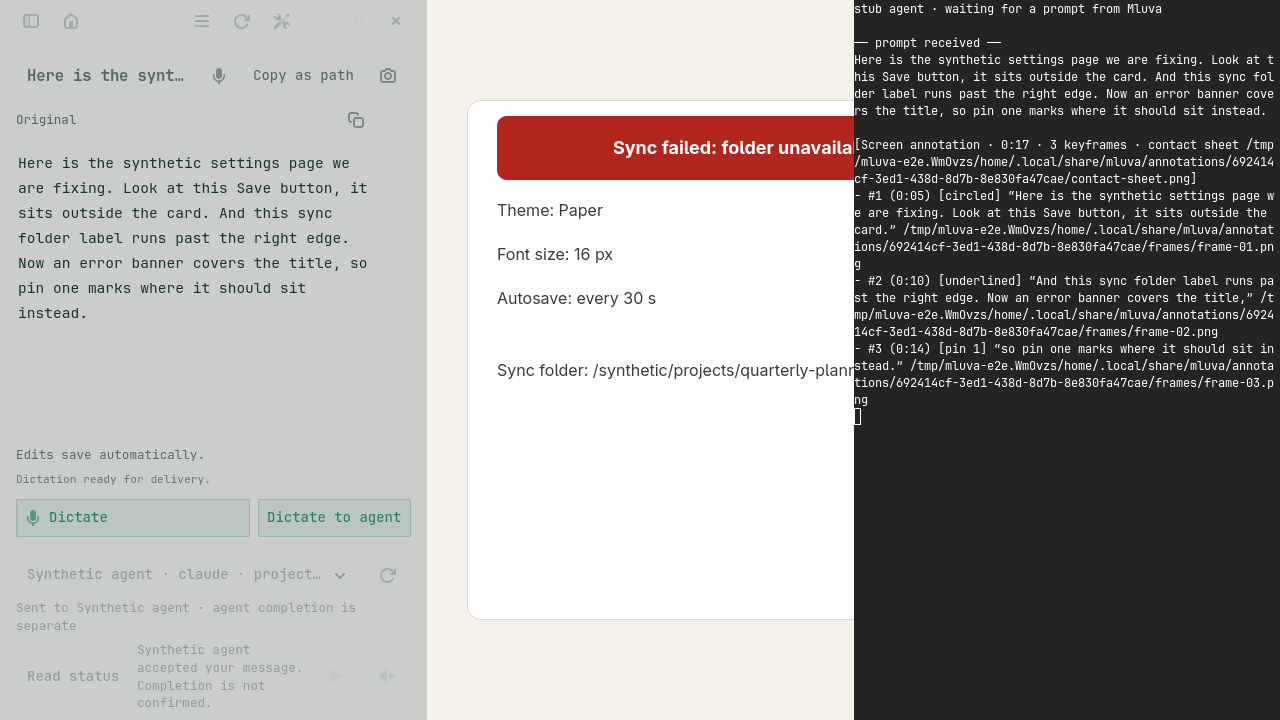
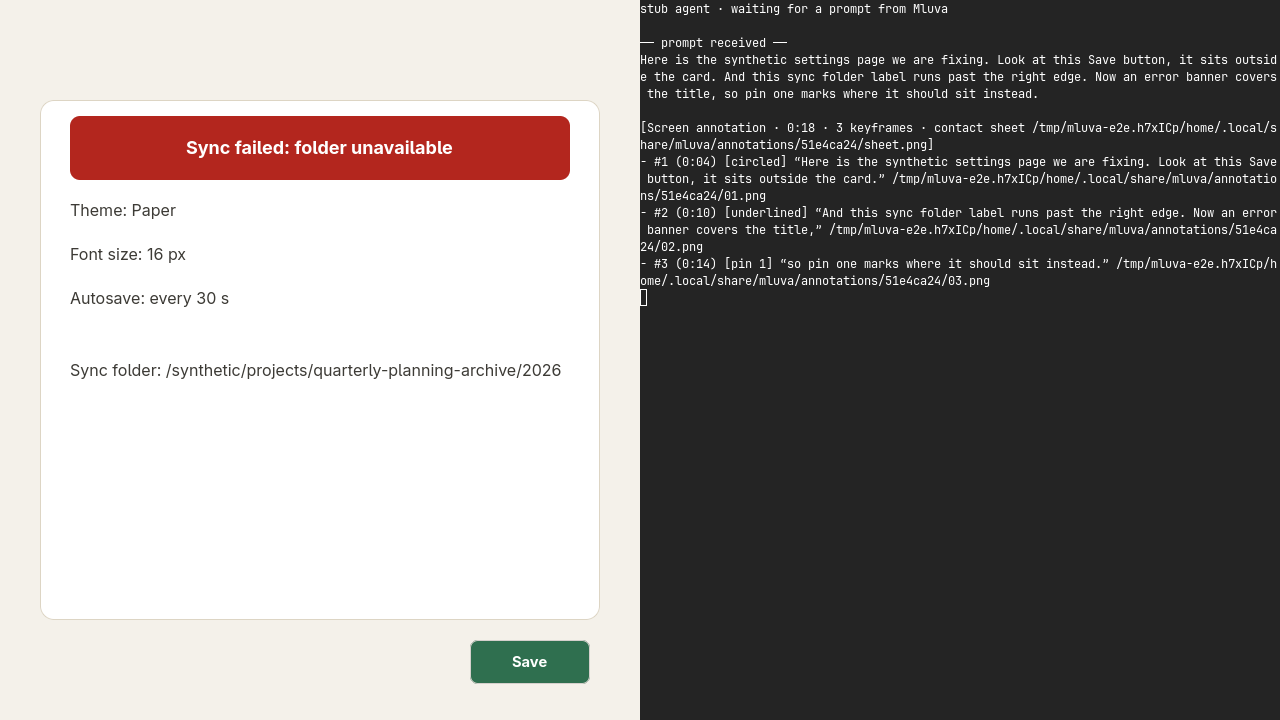
Regenerate the offscreen evidence with short bundle paths
Run the offscreen end-to-end check with debug binaries built from the
path change. The delivered summary now names
annotations/<8 hex>/01.png and sheet.png. The record gives the path
lengths before and after, and notes that the virtual machine's bundles
predate the change.

diff --git a/docs/verification/screen-annotations/README.md b/docs/verification/screen-annotations/README.md
@@ -18,22 +18,23 @@ Run it from the repository root once a layer-shell harness and the debug binarie
 
 ### Result
 
-The [evidence](evidence/) comes from one run on 21 October 2026 with debug binaries built from `b1ba83e`, the branch merged with `main` after #112 ([hashes](evidence/binaries.sha256)). The timeline is in [driver.log](evidence/driver.log); times below are on the recording's sample clock.
+The [evidence](evidence/) comes from one run on 23 October 2026 with debug binaries built from `1002c33`, which shortens the bundle paths on top of `main` after #115 ([hashes](evidence/binaries.sha256)). The timeline is in [driver.log](evidence/driver.log); times below are on the recording's sample clock.
 
 | Check | Observed |
 | --- | --- |
 | Drawing reaches the overlay | Live ink over the synthetic page while Shift was held ([screenshot](evidence/02-drawing-circle.png)); ordinary windows kept their input |
-| Clean frames | Each keyframe was grabbed before its ink showed; the ink in the frames is composited from vectors. Only two raw frames were kept: the underline and the pin reused unchanged screens, keeping their own times |
+| Clean frames | Each keyframe was grabbed before its ink showed; the ink in the frames is composited from vectors. Only two raw frames were kept: the underline reused the circle's unchanged screen, keeping its own time, and the pin's frame shows the banner |
 | No frames before drawing | Nothing was grabbed before the first ink on this desktop, which binds no Shift; sampling started with it |
-| Keyframes | 3 for 3 separate gestures: circle at 0:05, underline at 0:10, pin at 0:14. The banner change and the spoken "Now" were not separate keyframes because the pin's frame already shows that screen |
+| Keyframes | 3 for 3 separate gestures: circle at 0:04, underline at 0:10, pin at 0:14. The banner change and the spoken "Now" were not separate keyframes because the pin's frame already shows that screen |
 | Crops | Whole screen, because this compositor reports no window geometry; no text is cut. Whole-window crops on Hyprland are covered by unit tests on synthetic geometry |
 | Clause matching | Each keyframe carries the words heard while it was on screen, on the preview-growth fallback ([summary](evidence/bundle/summary.md)). At 3 s preview chunks, the start of the banner sentence spills into the underline's line |
-| Delivery | One guarded `agent.prompt_guarded` after the two-second window, its text exactly the transcript, a blank line and `summary.md` ([prompt](evidence/delivered-prompt.txt), [terminal](evidence/04-agent-received.png)) |
+| Delivery | One guarded `agent.prompt_guarded` after the two-second window, its text exactly the transcript, a blank line and `summary.md` without its final newline ([prompt](evidence/delivered-prompt.txt), [terminal](evidence/04-agent-received.png)) |
+| Paths | The bundle is `annotations/51e4ca24/` with `01.png` to `03.png` and `sheet.png` directly inside. Under this run's synthetic home a keyframe path is 73 characters and the contact sheet's 76, against 114 and 112 for the earlier `<uuid>/frames/frame-NN.png` layout ([summary](evidence/bundle/summary.md)) |
 | History | Raw and working text are the transcript only; the bundle belongs to that conversation with 3 keyframes ([history](evidence/history.json)) |
-| Privacy | Bundle directories `0700`, files `0600` ([modes](evidence/bundle-modes.txt)); no raw-frame directory left after Quit ([count](evidence/leftover-frame-directories.txt)) |
-| Speech | Five 3 s preview chunks and one 17.9 s final upload to the loopback peer ([requests](evidence/speech-requests.jsonl)) |
+| Privacy | Bundle directory `0700`, files `0600` ([modes](evidence/bundle-modes.txt)); no raw-frame directory left after Quit ([count](evidence/leftover-frame-directories.txt)) |
+| Speech | Six 3 s preview chunks and one 18.0 s final upload to the loopback peer ([requests](evidence/speech-requests.jsonl)) |
 
-![Contact sheet from the run](evidence/bundle/contact-sheet.png)
+![Contact sheet from the run](evidence/bundle/sheet.png)
 
 ## Real Hyprland in a virtual machine
 
@@ -42,7 +43,7 @@ The [harness](hyprland-vm/README.md) runs Arch Linux in QEMU/KVM, headless, on a
 - **Input.** QMP drives the guest's USB keyboard and tablet, which libinput sees as physical devices.
 - **Observation.** Everything is read inside the guest: `hyprctl`, `grim`, and a probe text app that logs the keys, clicks, text and selection it receives.
 - **Mluva.** Mluva uses the managed Lua shortcut bridge, as on the workstation. Speech comes from the loopback peer, and the agent is the Herdr fixture peer with a stub agent in `foot`.
-- **Build.** Debug binaries from `189f948`, the head of the fixes ([hashes](hyprland-vm/evidence/binaries.sha256)), run on 23 October 2026.
+- **Build.** Debug binaries from `189f948`, the head of the fixes ([hashes](hyprland-vm/evidence/binaries.sha256)), run on 23 October 2026. These bundles predate the short paths and show the earlier `<uuid>/frames/frame-NN.png` layout. The path change touches no platform code, so it was verified offscreen only.
 
 | Check | Result |
 | --- | --- |
@@ -91,8 +92,8 @@ The [harness](hyprland-vm/README.md) runs Arch Linux in QEMU/KVM, headless, on a
 | Keyframes | Every mark kept, distinct moments only, a banner inside three blocks is a new screen at 1920×1080 and 2880×1800 while a moving pointer is not, twelve at most with sixteen marks, separate gestures keep their own keyframe and words, Czech and English cues (`keyframes.rs`) |
 | Timing | Provider words preferred, preview growth interpolated, even spread as the last resort, clauses partitioned (`timing.rs`) |
 | Crops | Marks crop to the whole window under them, the smaller one when a floating window overlaps a tiled one, widened to keep every mark; marks over no window keep every window they touch; other keyframes show the focused window; without geometry the whole screen (`rust/mluva-annotate/src/render.rs`) |
-| Bundle | Synthetic HiDPI frames rendered, cropped and badged; owner-only files; a removed directory is never recreated (`rust/mluva-annotate/tests/bundle.rs`) |
-| Storage | Stable paths while ownership moves; deletion, pruning and merge follow the conversation; Markdown export links keyframes; startup recovery keeps a finished bundle and removes one without a summary or with a missing frame (`rust/mluva-core/tests/annotation_store.rs`, `rust/mluva-workflows/tests/services.rs`) |
+| Bundle | Synthetic HiDPI frames rendered, cropped and badged; keyframes and `sheet.png` directly in the bundle; owner-only files; a removed directory is never recreated (`rust/mluva-annotate/tests/bundle.rs`) |
+| Storage | Short identifiers; an identifier whose directory or row exists is skipped, never reused, and creation fails after a bounded number of attempts; both identifier forms accepted and links, traversal and other names refused; stable paths while ownership moves; deletion, pruning and merge follow the conversation; Markdown export links keyframes; a bundle from an earlier release keeps its UUID layout through export, recovery and pruning; startup recovery keeps a finished bundle and removes one without a summary or with a missing frame (`rust/mluva-core/src/annotations.rs`, `rust/mluva-core/tests/annotation_store.rs`, `rust/mluva-workflows/tests/services.rs`) |
 | Delivery | The summary follows final recognition in the delivered message while raw and working text stay the transcript; silence builds nothing (`rust/mluva-workflows/tests/delivery_appendix.rs`) |
 | Clock | Marks use written samples, not wall time (`rust/mluva-workflows/tests/sample_clock.rs`) |
 | Scribe batch | Word times kept without spacing or audio events (`rust/mluva-providers/tests/contracts.rs`) |

diff --git a/docs/verification/screen-annotations/evidence/bundle/summary.md b/docs/verification/screen-annotations/evidence/bundle/summary.md
@@ -1,4 +1,4 @@
-[Screen annotation · 0:17 · 3 keyframes · contact sheet /tmp/mluva-e2e.WmOvzs/home/.local/share/mluva/annotations/692414cf-3ed1-438d-8d7b-8e830fa47cae/contact-sheet.png]
-- #1 (0:05) [circled] “Here is the synthetic settings page we are fixing. Look at this Save button, it sits outside the card.” /tmp/mluva-e2e.WmOvzs/home/.local/share/mluva/annotations/692414cf-3ed1-438d-8d7b-8e830fa47cae/frames/frame-01.png
-- #2 (0:10) [underlined] “And this sync folder label runs past the right edge. Now an error banner covers the title,” /tmp/mluva-e2e.WmOvzs/home/.local/share/mluva/annotations/692414cf-3ed1-438d-8d7b-8e830fa47cae/frames/frame-02.png
-- #3 (0:14) [pin 1] “so pin one marks where it should sit instead.” /tmp/mluva-e2e.WmOvzs/home/.local/share/mluva/annotations/692414cf-3ed1-438d-8d7b-8e830fa47cae/frames/frame-03.png
+[Screen annotation · 0:18 · 3 keyframes · contact sheet /tmp/mluva-e2e.h7xICp/home/.local/share/mluva/annotations/51e4ca24/sheet.png]
+- #1 (0:04) [circled] “Here is the synthetic settings page we are fixing. Look at this Save button, it sits outside the card.” /tmp/mluva-e2e.h7xICp/home/.local/share/mluva/annotations/51e4ca24/01.png
+- #2 (0:10) [underlined] “And this sync folder label runs past the right edge. Now an error banner covers the title,” /tmp/mluva-e2e.h7xICp/home/.local/share/mluva/annotations/51e4ca24/02.png
+- #3 (0:14) [pin 1] “so pin one marks where it should sit instead.” /tmp/mluva-e2e.h7xICp/home/.local/share/mluva/annotations/51e4ca24/03.png
